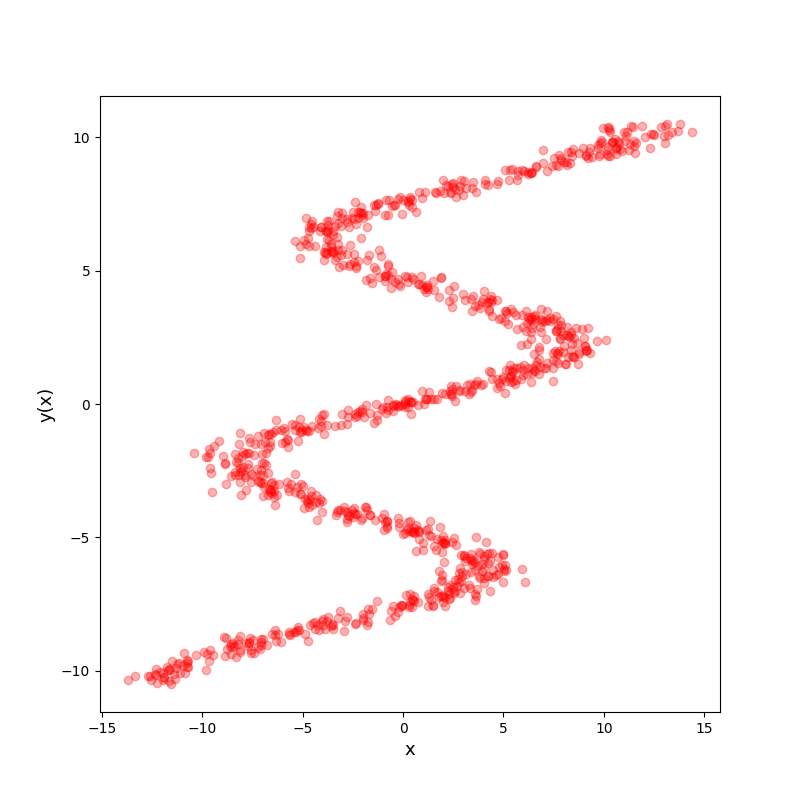
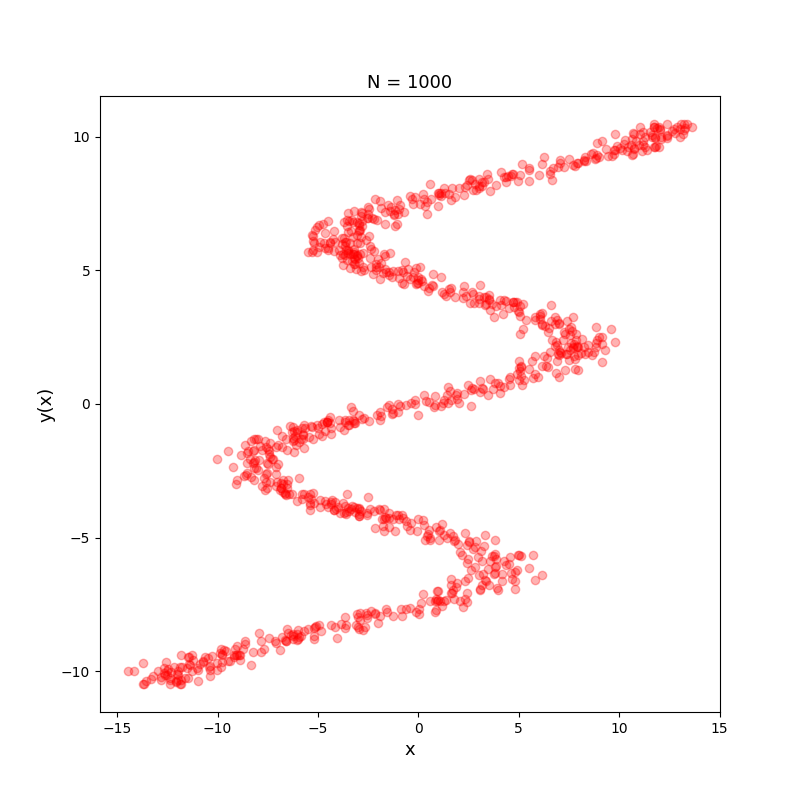
working code!

diff --git a/mdn.py b/mdn.py
@@ -5,11 +5,12 @@
 import matplotlib
 matplotlib.use('Agg')
 import matplotlib.pyplot as plt
-import numpy as np
 import tensorflow as tf
-import math
+import numpy as np
+import math as ma
 #import scipy
 #import h5py
+import functions as fn
 
 figure_path = "./figures/"
 
@@ -30,6 +31,7 @@ fig = plt.figure(figsize=(8, 8))
 plt.plot(x_data,y_data,'ro',alpha=0.3)
 plt.xlabel(r"x",fontsize=13)
 plt.ylabel(r"y(x)",fontsize=13)
+plt.title(r"N = %i" %(Nd),fontsize=13)
 plt.savefig(plotname,format="png"); plt.close(fig);
 plt.show()
 
@@ -44,6 +46,23 @@ fig = plt.figure(figsize=(8, 8))
 plt.plot(x_data2,y_data2,'ro',alpha=0.3)
 plt.xlabel(r"x",fontsize=13)
 plt.ylabel(r"y(x)",fontsize=13)
+plt.title(r"N = %i" %(Nd),fontsize=13)
+plt.savefig(plotname,format="png"); plt.close(fig);
+plt.show()
+
+# data set 3:
+
+NSAMPLE = 2500
+y_data3 = np.float32(np.random.uniform(-10.5, 10.5, (1, NSAMPLE))).T
+r_data3 = np.float32(np.random.normal(size=(NSAMPLE,1))) # random noise
+x_data3 = np.float32(np.sin(0.75*y_data3)*7.0+y_data3*0.5+r_data3*1.0)
+
+plotname = figure_path +'data3.png' 
+fig = plt.figure(figsize=(8, 8))
+plt.plot(x_data3,y_data3,'ro',alpha=0.3)
+plt.xlabel(r"x",fontsize=13)
+plt.ylabel(r"y(x)",fontsize=13)
+plt.title(r"N = %i" %(NSAMPLE),fontsize=13)
 plt.savefig(plotname,format="png"); plt.close(fig);
 plt.show()
 
@@ -100,7 +119,7 @@ x_test = x_test.reshape(x_test.size,1) # changes dimensions from (N,) to (N,1)
 #print(np.shape(x_test))
 y_test = sess.run(y_out,feed_dict={x: x_test})
 
-plotname = figure_path +'predictions.png' 
+plotname = figure_path +'predictions_nn.png' 
 fig = plt.figure(figsize=(8, 8))
 plt.plot(x_data,y_data,'ro',alpha=0.3,label=r"data")
 plt.plot(x_test,y_test,'bo',alpha=0.3,label=r"predictions")
@@ -126,7 +145,7 @@ x_test = np.float32(np.arange(-10.5,10.5,0.1))
 x_test = x_test.reshape(x_test.size,1) 
 y_test = sess.run(y_out,feed_dict={x: x_test})
 
-plotname = figure_path +'predictions2.png' 
+plotname = figure_path +'predictions_nn2.png' 
 fig = plt.figure(figsize=(8, 8))
 plt.plot(x_data2,y_data2,'ro',alpha=0.3,label=r"data")
 plt.plot(x_test,y_test,'bo',alpha=0.3,label=r"predictions")
@@ -143,150 +162,59 @@ sess.close()
 # A mixture density network
 
 
+# construct the MDN:
+NHIDDEN = 24
+STDEV = 0.5
+KMIX = 24 # number of mixtures
+NOUT = KMIX * 3 # pi, mu, stdev
+
+x = tf.placeholder(dtype=tf.float32, shape=[None,1], name="x") 
+y = tf.placeholder(dtype=tf.float32, shape=[None,1], name="y")
+
+Wh = tf.Variable(tf.random_normal([1,NHIDDEN], stddev=STDEV, dtype=tf.float32))
+bh = tf.Variable(tf.random_normal([1,NHIDDEN], stddev=STDEV, dtype=tf.float32))
+
+Wo = tf.Variable(tf.random_normal([NHIDDEN,NOUT], stddev=STDEV, dtype=tf.float32))
+bo = tf.Variable(tf.random_normal([1,NOUT], stddev=STDEV, dtype=tf.float32))
+
+hidden_layer = tf.nn.tanh(tf.matmul(x, Wh) + bh)
+output = tf.matmul(hidden_layer,Wo) + bo
+
+out_pi, out_sigma, out_mu = fn.get_mixture_coeff(output,KMIX)
+
+lossfunc = fn.get_lossfunc(out_pi, out_sigma, out_mu, y)
+train_op = tf.train.AdamOptimizer().minimize(lossfunc)
+
+# training:
+sess = tf.InteractiveSession()
+sess.run(tf.global_variables_initializer())
+
+NEPOCH = 10000
+loss = np.zeros(NEPOCH) # store the training progress here.
+for i in range(NEPOCH):
+  sess.run(train_op,feed_dict={x: x_data3, y: y_data3})
+  loss[i] = sess.run(lossfunc, feed_dict={x: x_data3, y: y_data3})
 
 
+# testing:
+x_test = np.float32(np.arange(-15,15,0.1))
+NTEST = x_test.size
+x_test = x_test.reshape(NTEST,1) # needs to be a matrix, not a vector
+
+out_pi_test, out_sigma_test, out_mu_test = sess.run(fn.get_mixture_coeff(output,KMIX), feed_dict={x: x_test})
+
+y_test = fn.generate_ensemble( out_pi_test, out_mu_test, out_sigma_test, x_test )
 
 
-
-
-
-
-
-
-
-
-
-
-
-
-
-
-
-
-
-
-
-
-
-
-
-
-"""
-
-# =============================================================================
-# functions
-
-def hidden_layer( y, W, W0, w, w0 , function_flag ):
- # a single hidden layer NN with a single network output, Z
- Nm = np.shape(W0)[0]
- z = np.zeros([Nm]) 
- for j in range(0,Nm): # for each hidden unit 
-   z[j] = sum(y[:,0]*W[j,:]) + W0[j,0]
-
- if function_flag == 'ReLU':
-   Z = sum(ReLU(z[:])*w[:,0]) + w0 # network output
- return Z
-
-def ReLU( self ):
- f = np.zeros(np.shape(self)[0])
- for k in range(0,np.shape(self)[0]):
-  if self[k] > 0.:
-    f[k] = self[k]
- return f
-
-def output_layer( y, w, w0 , function_flag ):
- # a single hidden layer NN with a single network output, Z
- N = np.shape(w)[0] # number of inputs to the single output
- z = sum(np.multiply(y,w)) + w0
- #if function_flag == 'ReLU':
- #  Z = sum(ReLU(z[:])*w[:,0]) + w0 # network output
- return z
-
-def hinge( y, z ):
-  loss = max(0.,1-y*z)
-  return loss
-
-# =============================================================================
-# make the data
-
-Nd = 1000 # number of inputs
-x = np.float32(np.random.uniform(-10.5, 10.5, (1, Nd))).T
-r = np.float32(np.random.normal(size=(Nd,1)))
-y = np.float32(np.sin(0.75*x)*7.0+x*0.5+r*1.0)
-
-plotname = figure_path +'data.png' 
+plotname = figure_path +'predictions_mdn.png' 
 fig = plt.figure(figsize=(8, 8))
-plt.plot(x,y,'ro',alpha=0.3)
+plt.plot(x_data3,y_data3,'ro',alpha=0.3,label=r"data")
+plt.plot(x_test,y_test,'bo',alpha=0.3,label=r"predictions")
 plt.xlabel(r"x",fontsize=13)
 plt.ylabel(r"y(x)",fontsize=13)
 plt.savefig(plotname,format="png"); plt.close(fig);
 plt.show()
 
-# =============================================================================
-# simple neural network with no hidden layers and 20 nodes, w/o Tensorflow
+sess.close()
 
-w = np.float32(np.random.normal(size=(Nd,1))) 
-w0 = np.float32(np.random.normal(size=(1))) # one bias for hidden layer output
-
-
-# if you sum over x and there is one z output, how does each x,y pair have a unique z?
-
-
-# iterate over training examples in random order and update based on the loss: 
-# the loss comes from plugging in the x value into the w,w0 to predict y 
-
-
-
-# for every x,y pair get a z 
-z = output_layer( x, w, w0 ) # one output for an input vector
-print(z)
-# which y pairs with z?
-
-# output weights, w, w0: update using the SGD method for the single layer model for a linear classifier
-
-
-# decision boundary at x*w+w0
-
-# =============================================================================
-# simple neural network one-hidden layer and 20 nodes, w/o Tensorflow
-
-Nm = 20 # number of hidden layers
-
-# initial weights:
-W = np.float32(np.random.normal(size=(Nm,Nd))) 
-W0 = np.float32(np.random.normal(size=(Nm,1))) # one bias for each NN input
-w = np.float32(np.random.normal(size=(Nm,1))) 
-w0 = np.float32(np.random.normal(size=(1))) # one bias for hidden layer output
-
-Z = hidden_layer( y, W, W0, w, w0 , 'ReLU' )
-print(Z)
-
-# output weights, w, w0: update using the SGD method for the single layer model for a linear classifier
-
-
-# hidden weights, W, W0:
-# select a random input
-# choose weights via minimized loss
-# repeat.
-
-# x and y above are x_data
-
-x = tf.placeholder(dtype=tf.float32, shape=[None,1])
-y = tf.placeholder(dtype=tf.float32, shape=[None,1])
-
-
-NHIDDEN = 20
-W = tf.Variable(tf.random_normal([1,NHIDDEN], stddev=1.0, dtype=tf.float32))
-b = tf.Variable(tf.random_normal([1,NHIDDEN], stddev=1.0, dtype=tf.float32))
-
-W_out = tf.Variable(tf.random_normal([NHIDDEN,1], stddev=1.0, dtype=tf.float32))
-b_out = tf.Variable(tf.random_normal([1,1], stddev=1.0, dtype=tf.float32))
-
-hidden_layer = tf.nn.tanh(tf.matmul(x, W) + b)
-y_out = tf.matmul(hidden_layer,W_out) + b_out
-
-
-lossfunc = tf.nn.l2_loss(y_out-y);
-
-"""
 

diff --git a/functions.py b/functions.py
@@ -1,0 +1,73 @@
+
+
+import matplotlib
+matplotlib.use('Agg')
+import matplotlib.pyplot as plt
+import tensorflow as tf
+import numpy as np
+import math as ma
+#import scipy
+#import h5py
+
+figure_path = "./figures/"
+
+
+# =============================================================================
+# functions
+
+def get_mixture_coeff(output,KMIX):
+  out_pi = tf.placeholder(dtype=tf.float32, shape=[None,KMIX], name="mixparam")
+  out_sigma = tf.placeholder(dtype=tf.float32, shape=[None,KMIX], name="mixparam")
+  out_mu = tf.placeholder(dtype=tf.float32, shape=[None,KMIX], name="mixparam")
+  out_pi, out_sigma, out_mu = tf.split(output, num_or_size_splits=3, axis=1)
+  max_pi = tf.reduce_max(out_pi, 1, keepdims=True)
+  out_pi = tf.subtract(out_pi, max_pi)
+  out_pi = tf.exp(out_pi)
+  normalize_pi = tf.reciprocal(tf.reduce_sum(out_pi, 1, keepdims=True))
+  out_pi = tf.multiply(normalize_pi, out_pi)
+  out_sigma = tf.exp(out_sigma)
+  return out_pi, out_sigma, out_mu
+
+
+def tf_normal(y, mu, sigma):
+  result = tf.subtract(y, mu)
+  result = tf.multiply(result, tf.reciprocal(sigma))
+  result = -tf.square(result)/2
+  return tf.multiply(tf.exp(result),tf.reciprocal(sigma))/(ma.sqrt(2*ma.pi))
+
+
+def get_lossfunc(out_pi, out_sigma, out_mu, y):
+  result = tf_normal(y, out_mu, out_sigma)
+  result = tf.multiply(result, out_pi)
+  result = tf.reduce_sum(result, 1, keepdims=True)
+  result = -tf.log(result)
+  return tf.reduce_mean(result)
+
+
+def get_pi_idx(x, pdf):
+  N = pdf.size
+  accumulate = 0
+  for i in range(0, N):
+    accumulate += pdf[i]
+    if (accumulate >= x):
+      return i
+  print('error with sampling ensemble')
+  return -1
+
+
+def generate_ensemble(out_pi, out_mu, out_sigma, x_test , M = 10):
+  NTEST = x_test.size
+  result = np.random.rand(NTEST, M) # initially random [0, 1]
+  rn = np.random.randn(NTEST, M) # normal random matrix (0.0, 1.0)
+  mu = 0
+  std = 0
+  idx = 0
+
+  # transforms result into random ensembles
+  for j in range(0, M):
+    for i in range(0, NTEST):
+      idx = get_pi_idx(result[i, j], out_pi[i])
+      mu = out_mu[i, idx]
+      std = out_sigma[i, idx]
+      result[i, j] = mu + rn[i, j]*std
+  return result
